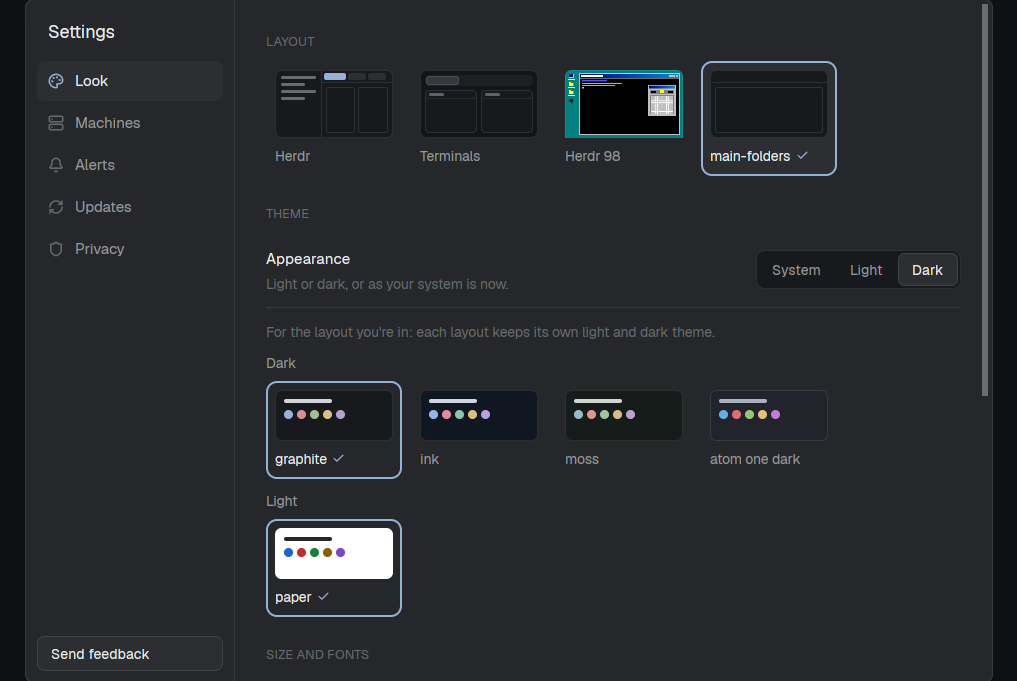
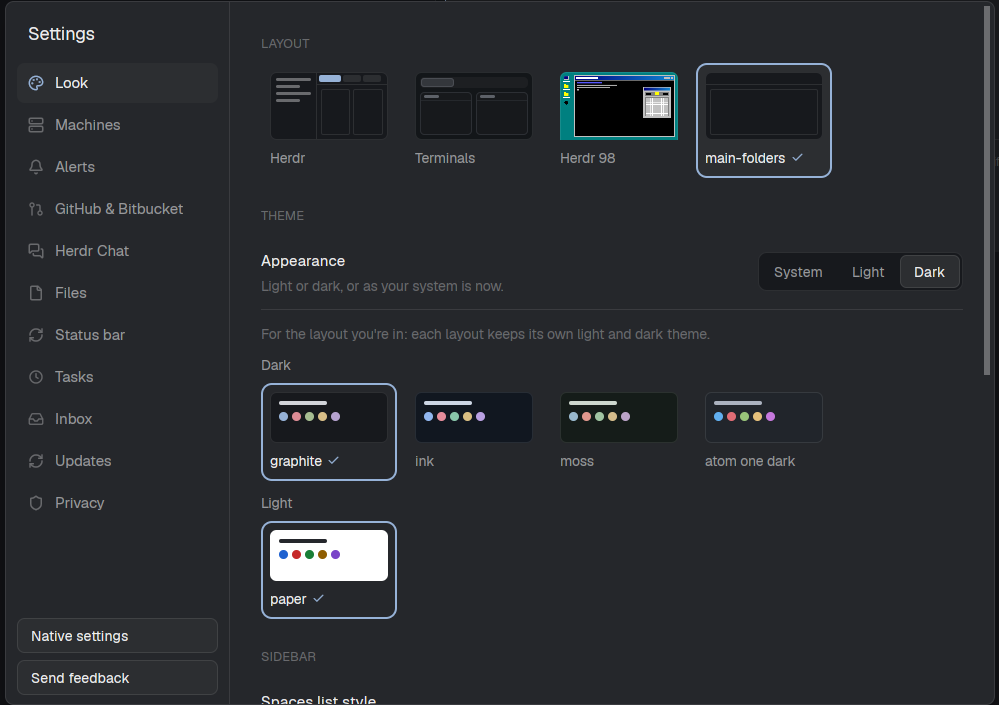
fix(previews): settings-custom shows all sections, real new-menu-custom shot, workspace-chrome-custom crop

diff --git a/tools/crop.py b/tools/crop.py
@@ -35,14 +35,14 @@ REGIONS: dict[str, Region | list[Region]] = {
     **dict.fromkeys(RIGHT_PANEL_MODS, RIGHT_PANEL),
     "space-folders": (0.0, 0.04, 0.155, 0.32),
     "agents-custom": (0.0, 0.49, 0.155, 0.80),
-    "workspace-chrome-custom": [(0.0, 0.0, 0.155, 0.05), (0.0, 0.925, 0.155, 1.0)],
+    "workspace-chrome-custom": [(0.0, 0.0, 0.152, 0.05), (0.0, 0.93, 0.152, 0.995)],
     "tabs-folders": (0.155, 0.0, 1.0, 0.046),
     "workspace-status-usage": (0.155, 0.968, 0.84, 1.0),
     "file-view": (0.158, 0.05, 0.78, 0.96),
     "file-picker": (0.32, 0.05, 0.68, 0.58),
     "new-tab": (0.40, 0.34, 0.60, 0.66),
-    "new-menu-custom": (0.55, 0.04, 0.8, 0.4),
-    "settings-custom": (0.235, 0.17, 0.765, 0.83),
+    "new-menu-custom": (0.47, 0.052, 0.78, 0.405),
+    "settings-custom": (0.24, 0.158, 0.76, 0.842),
     "desktop-toast": (0.79, 0.85, 0.995, 0.945),
 }
 

diff --git a/README.md b/README.md
@@ -59,4 +59,3 @@ tools/demo/populate.sh   # mock spaces, tabs and agents
 tools/demo/shoot.sh      # shoot and crop every preview (or: shoot.sh <mod>...)
 ```
 
-`new-menu-custom` has no preview yet: it only opens from the tab bar's + button, which needs a click.
